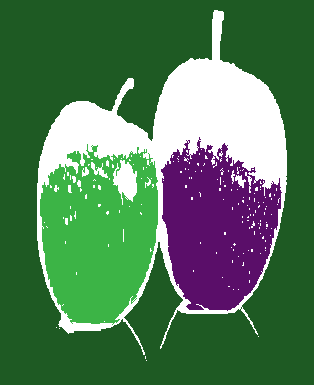
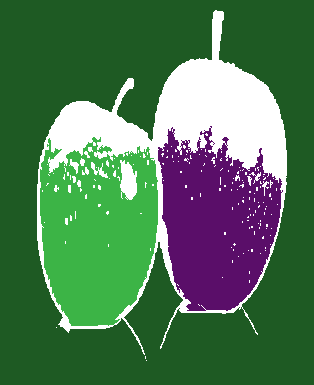
region2

diff --git a/Task4/regionGrowing.py b/Task4/regionGrowing.py
@@ -4,7 +4,6 @@ import random
 import sys
 
 
-# class pour une pile
 class Stack():
     def __init__(self):
         self.item = []
@@ -38,8 +37,6 @@ class regionGrow():
         self.stack = Stack()
         self.thresh = float(th)
 
-    # def readImage(self, img_path):
-    #     self.im = cv2.imread(img_path, 1)
 
     def getNeighbour(self, x0, y0):
         neighbour = []
@@ -92,9 +89,6 @@ class regionGrow():
             print("Max Iterations")
         print("Iterations : " + str(self.iterations))
         return self.SEGS
-        # cv2.imshow("", self.SEGS)
-        # cv2.waitKey(0)
-        # cv2.destroyAllWindows()
 
     def BFS(self, x0, y0):
         regionNum = self.passedBy[x0, y0]
@@ -125,21 +119,3 @@ class regionGrow():
                     int(self.im[x, y, 1]) - int(self.im[x0, y0, 1])) ** 2 + (
                             int(self.im[x, y, 2]) - int(self.im[x0, y0, 2])) ** 2) ** 0.5
 
-#
-# def Test_Affiche(event, x, y, flags, param):
-#     global points
-#     if event == cv2.EVENT_RBUTTONDOWN:
-#         cv2.destroyAllWindows()
-#
-#     if event == cv2.EVENT_LBUTTONDOWN:
-#         seeds.append([y, x])
-
-
-# seeds = []
-# exemple = regionGrow('./images/cat.jpg', 10)
-# cv2.namedWindow('image')
-# cv2.setMouseCallback('image', Test_Affiche)
-# cv2.imshow('image', cv2.imread('./images/cat.jpg', 1))
-# cv2.waitKey(0)
-
-# exemple.ApplyRegionGrow(seeds)

diff --git a/Task4/main.py b/Task4/main.py
@@ -48,12 +48,9 @@ class ApplicationWindow(QtWidgets.QMainWindow):
         self.N = 8 #Threshold Size
 
     def regionGrowing(self):
-        # w = self.ui.input1Tab10.width()
-        # h = self.ui.input1Tab10.height()
-        # self.ui.input1Tab10.setPixmap(QPixmap(self.Path).scaled(w, h, QtCore.Qt.KeepAspectRatio))
         self.ui.RegionGrowing.show()
         self.seeds = []
-        self.pic = regionGrowing.regionGrow(self.new_image,7)
+        self.pic = regionGrowing.regionGrow(self.new_image,8)
     def chooseSides(self):
 
         self.ui.input1Tab10.mousePressEvent = self.getPos
@@ -113,8 +110,8 @@ class ApplicationWindow(QtWidgets.QMainWindow):
                 w = self.ui.input1Tab10.width()
                 h = self.ui.input1Tab10.height()
                 self.ui.input1Tab10.setPixmap(QPixmap(path).scaled(w, h, QtCore.Qt.KeepAspectRatio))
-                image = cv2.imread(path,1)
-                self.new_image = cv2.resize(image,(w, h))
+                self.Image = cv2.imread(path,1)
+                self.new_image = cv2.resize(self.Image,(w, h))
                 self.grayImage = cv2.imread(path,0)
     
                 # self.ui.input1Tab10.setPixmap(QPixmap(path))

diff --git a/Task4/optimal.py b/Task4/optimal.py
@@ -29,24 +29,3 @@ class Optimal:
             t = (bg_mean + fg_mean) / 2
         return t
 
-    # firstimage = cv2.imread("./images/Pyramids2.jpg")
-    # imgs2_preprocessed = segmentation_resize(np.array(firstimage))
-    #
-    #
-    # plt.axis('off')
-    # plt.imshow(cv2.cvtColor(imgs2_preprocessed.astype('float32'), cv2.COLOR_BGR2RGB))
-    # plt.savefig('old.png', dpi=300, bbox_inches='tight')
-    # plt.clf()
-    # if len(imgs2_preprocessed.shape) == 3: imgs2_preprocessed = rgb2gray(imgs2_preprocessed)
-    # t = optimal_thresholding(imgs2_preprocessed)
-    # b = plt
-    # b.hist(imgs2_preprocessed.flatten(), 256)
-    # b.axvline(x=t, color='r', linestyle='dashed', linewidth=2)
-    # b.savefig('hist.png', dpi=300, bbox_inches='tight')
-    # b.clf()
-    # # plt.show()
-    # c = plt
-    #
-    # c.axis('off')
-    # c.imshow(imgs2_preprocessed >= t)
-    # c.savefig('new.png', dpi=300, bbox_inches='tight')
